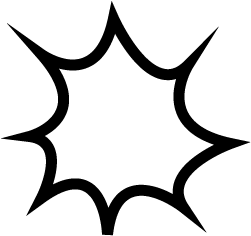
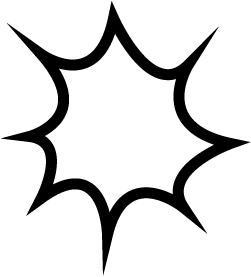
ランダムな回転角で二層出現

diff --git a/src/InjuryEffects.cpp b/src/InjuryEffects.cpp
@@ -31,17 +31,31 @@ void InjuryEffects::update() {
     
     tweenAlpha.update();
     texture_alpha = tweenAlpha.getTarget(0);
+    
 }
 
 void InjuryEffects::display() {
+    //    translate Matrix
+    ofPushMatrix();
+    ofTranslate(position.x, position.y);  //中心へ移動
+    ofRotateZDeg(inside_angle);
+    
     ofSetColor(0, 0, 0, texture_alpha);
-    inside_texture.draw(position.x - inside_size/2, position.y - inside_size/2, inside_size, inside_size);
-    outside_texture.draw(position.x - outside_size/2, position.y - outside_size/2, outside_size, outside_size);
+    inside_texture.draw(- inside_size/2, - inside_size/2, inside_size, inside_size);
+    
+    ofRotateZDeg(outside_angle - inside_angle);
+    
+    outside_texture.draw(- outside_size/2, - outside_size/2, outside_size, outside_size);
+    
+    //    reset Matrix
+    ofPopMatrix();
 }
 
 void InjuryEffects::effectStart(ofVec2f pos) {
-    cout << pos.x << endl;
+    inside_angle = ofRandom(360);
+    outside_angle = ofRandom(360);
     position = pos;
+    
     insideEffect.setParameters(1, ease_elastic, ofxTween::easeOut, inside_max_size * 0.2, inside_max_size * 0.6, 700, 50);
     outsideEffect.setParameters(2, ease_elastic, ofxTween::easeOut, inside_max_size * 0.6, inside_max_size * 1.2, 700, 0);
     tweenAlpha.setParameters(3, ease_circ, ofxTween::easeOut, 0, 255, 400, 0);

diff --git a/src/InjuryEffects.hpp b/src/InjuryEffects.hpp
@@ -23,6 +23,8 @@ public:
     float inside_size, inside_max_size, outside_size, outside_max_size, texture_alpha;
     float xPos = 0;
     float yPos = 0;
+    float inside_angle;
+    float outside_angle;
     ofVec2f position;
     
     ofImage inside_texture;
